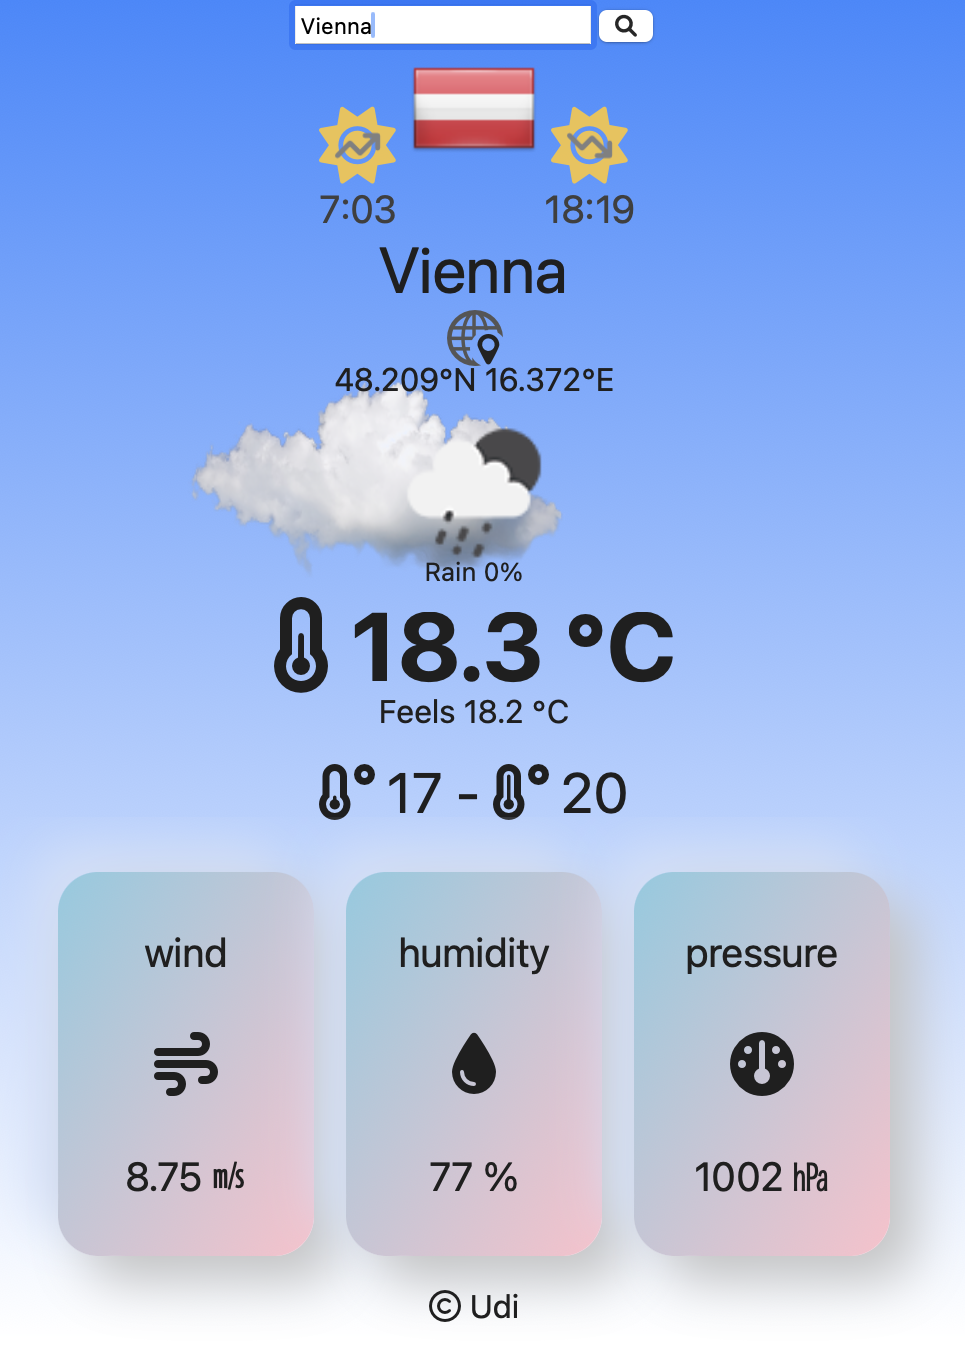
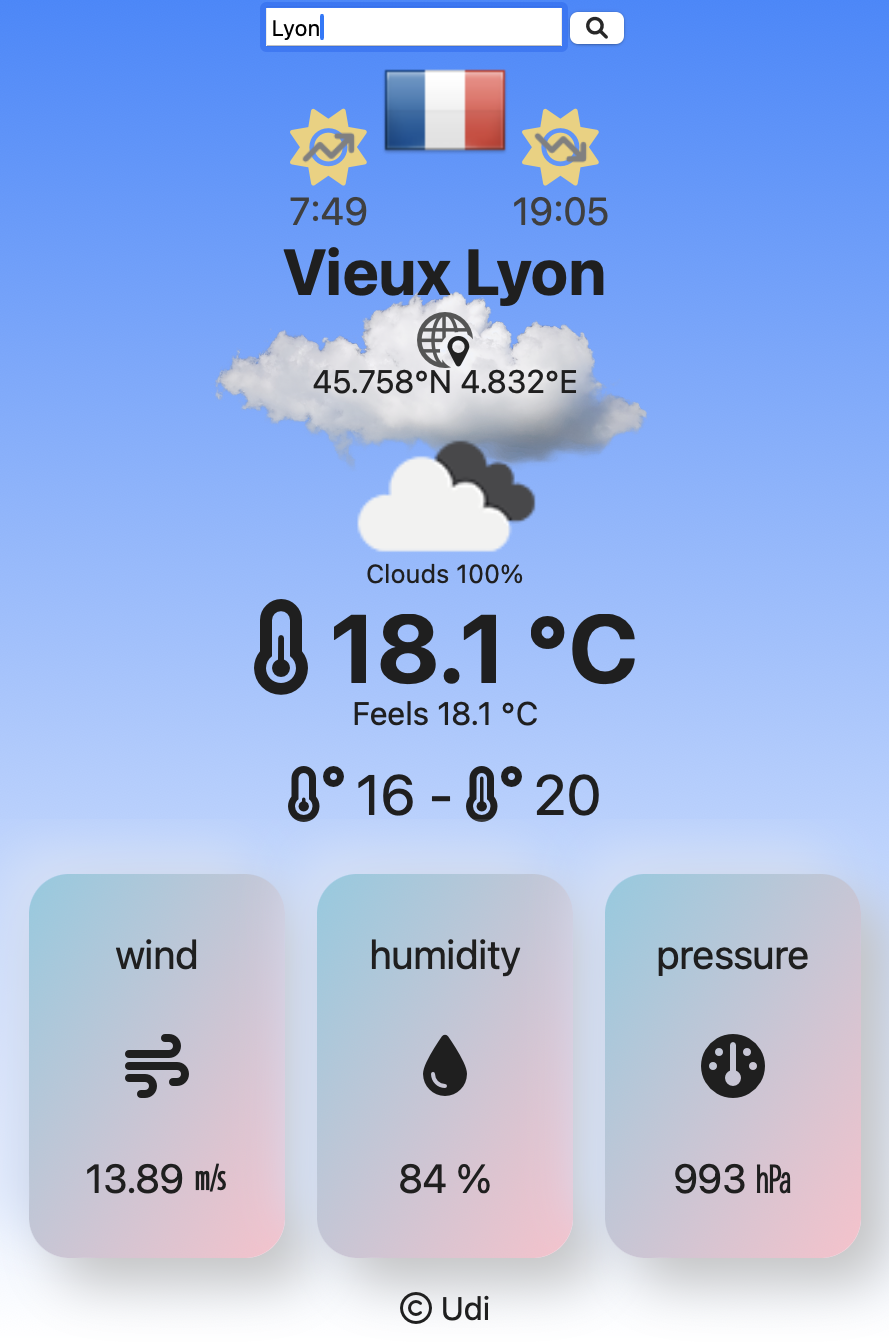
weather through lat lon

diff --git a/app.js b/app.js
@@ -1,3 +1,4 @@
+let appid = "";
 let searchCity = document.getElementById("searchCity");
 let app = document.querySelector(".app");
 let form = document.querySelector("form");
@@ -24,13 +25,34 @@ form.addEventListener("submit", (e) => {
     }
 });
 
-//const req = new Request("vienna.json");
 
 const searchCityWeather = (cityName) => {
     fetch(
-        "https://api.openweathermap.org/data/2.5/weather?&units=metric&mode=json&appid=&q=" +
+        "https://api.openweathermap.org/geo/1.0/direct?&limit=1&appid=" +
+            appid +
+            "&q=" +
             cityName
-        // req
+    )
+        .then((response) => {
+            if (!response.ok) {
+                throw new Error("Network response was not ok");
+            }
+            return response.json();
+        })
+        .then((location) => {
+            console.log(location);
+            searchLocationWeather(location);
+        });
+};
+
+function searchLocationWeather(location) {
+    fetch(
+        "https://api.openweathermap.org/data/2.5/weather?&units=metric&mode=json&appid=" +
+            appid +
+            "&lat=" +
+            location[0].lat +
+            "&lon=" +
+            location[0].lon
     )
         .then((response) => {
             if (!response.ok) {
@@ -53,7 +75,7 @@ const searchCityWeather = (cityName) => {
         .catch((error) => {
             console.error("Fetch error:", error);
         });
-};
+}
 
 function fillOutputData(data) {
     city.querySelector(".name").innerHTML = data.name;
@@ -94,4 +116,4 @@ const initApp = (city) => {
     searchCityWeather(city);
 };
 
-initApp("wroclaw");
+initApp("Žilina");

diff --git a/index.html b/index.html
@@ -26,14 +26,14 @@
             <section class="sun">
                 <span class="rise">
                     <span class="fa-stack">
-                        <i class="fa-solid fa-sun fa-stack-2x" style="color:rgb(254, 198, 42); opacity: 90%;"></i>
+                        <i class="fa-solid fa-sun fa-stack-2x" style="color:rgb(255, 214, 100); opacity: 90%;"></i>
                         <i class="fa-solid fa-arrow-trend-up fa-stack-1x fa-beat" style="color:gray;"></i>
                     </span>
                     <span id="sunrise">~6:48</span>
                 </span>
                 <span class="set">
                     <span class="fa-stack">
-                        <i class="fa-solid fa-sun fa-stack-2x" style="color:rgb(254, 198, 42); opacity: 90%;"></i>
+                        <i class="fa-solid fa-sun fa-stack-2x" style="color:rgb(255, 214, 100); opacity: 90%;"></i>
                         <i class="fa-solid fa-arrow-trend-down fa-stack-1x fa-beat" style="color:gray;"></i>
                     </span>
                     <span id="sunset">~18:26</span>

diff --git a/style.scss b/style.scss
@@ -35,7 +35,7 @@ body {
     border: $contour dotted seagreen;
     background-image: url("cloud.png");
     background-repeat: no-repeat;
-    background-size: 15vw 20vw;
+    background-size: 45% 40%;
 
     background-position: 0px 0px;
     animation: cloud-moving 50s linear infinite;
@@ -61,9 +61,6 @@ body {
     display: flex;
     flex-direction: column;
     align-items: center;
-    &img {
-        width: 64px;
-    }
 }
 
 .sun {
@@ -95,6 +92,7 @@ body {
     text-align: center;
     .name {
         font-size: 2.0rem;
+        font-weight: 700;
     }
 
     svg {

diff --git a/style.css b/style.css
@@ -31,7 +31,7 @@ body {
   border: 0px dotted seagreen;
   background-image: url("cloud.png");
   background-repeat: no-repeat;
-  background-size: 15vw 20vw;
+  background-size: 45% 40%;
   background-position: 0px 0px;
   animation: cloud-moving 50s linear infinite;
   margin: 0 auto;
@@ -55,9 +55,6 @@ body {
   display: flex;
   flex-direction: column;
   align-items: center;
-}
-.mainimg {
-  width: 64px;
 }
 
 .sun {
@@ -90,6 +87,7 @@ body {
 }
 .city .name {
   font-size: 2rem;
+  font-weight: 700;
 }
 .city svg {
   width: 2em;
